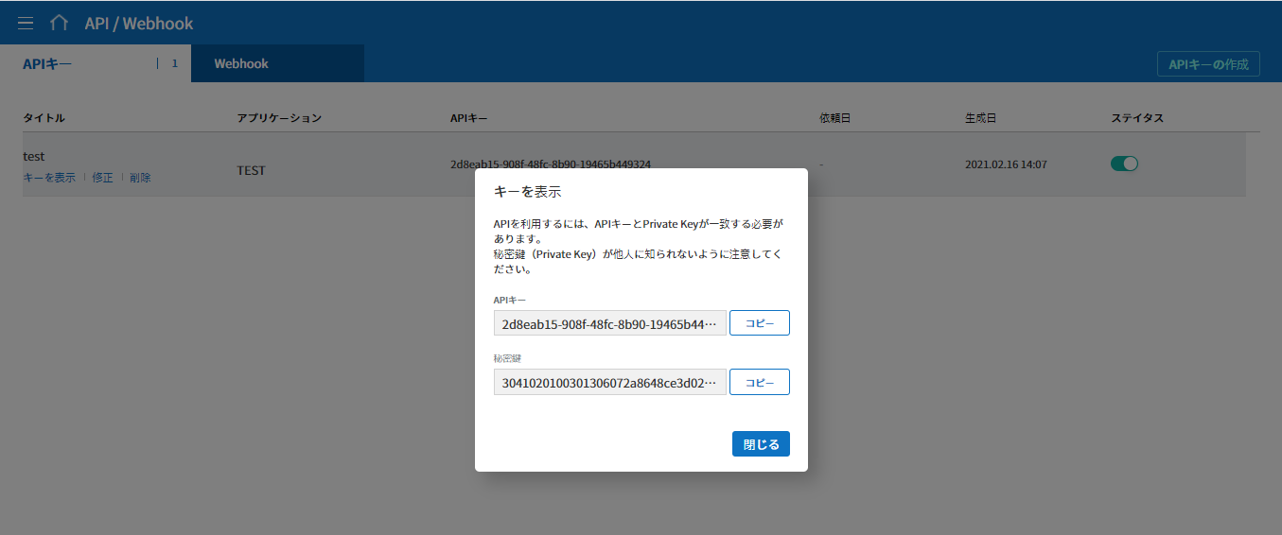
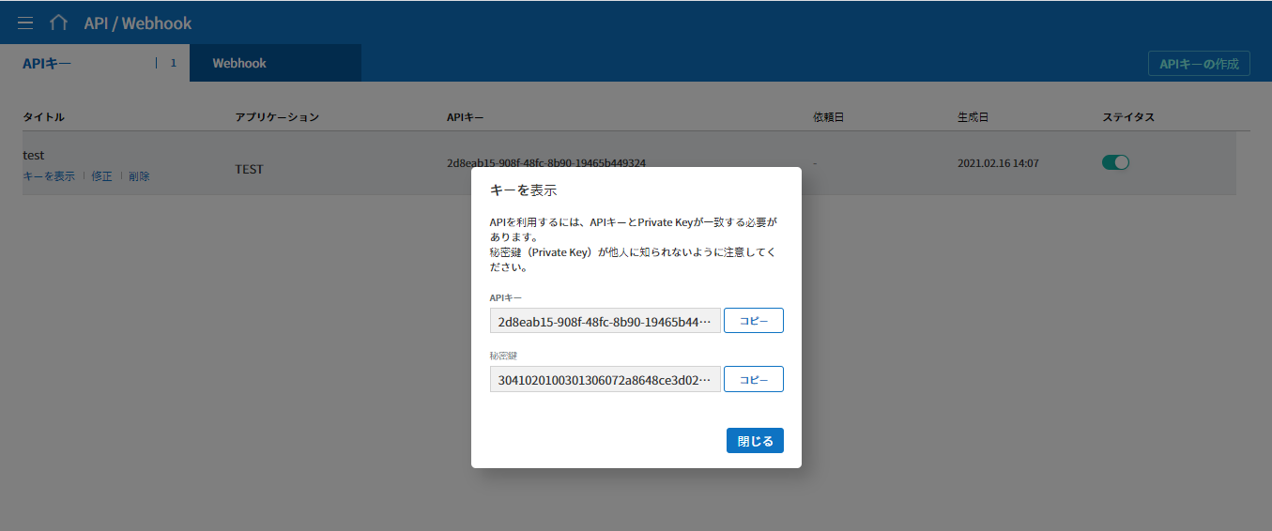
오류 수정2(이미지 정상적 업로드하기 위함)

diff --git a/docs/help/eformsign_webhook.html b/docs/help/eformsign_webhook.html
@@ -121,11 +121,11 @@
 <ol class="arabic simple">
 <li><p>eformsignに代表管理者としてログインし、左側のメニューから <strong>コネクト &gt; [API/Webhook]</strong> ページに移動します。</p></li>
 </ol>
-<a class="reference internal image-reference" href="../_images/apikey1.PNG"><img alt="コネクト &gt; API/Webhook メニューの位置" src="../_images/apikey1.PNG" style="width: 700px;" /></a>
+<a class="reference internal image-reference" href="../_images/apikey1.png"><img alt="コネクト &gt; API/Webhook メニューの位置" src="../_images/apikey1.png" style="width: 700px;" /></a>
 <ol class="arabic simple" start="2">
 <li><p><strong>[Webhook]</strong> タブを選択し、<strong>Webhookの作成</strong> ボタンをクリックします。</p></li>
 </ol>
-<a class="reference internal image-reference" href="../_images/webhook2.PNG"><img alt="「Webhookの作成」ボタン" src="../_images/webhook2.PNG" style="width: 700px;" /></a>
+<a class="reference internal image-reference" href="../_images/webhook2.png"><img alt="「Webhookの作成」ボタン" src="../_images/webhook2.png" style="width: 700px;" /></a>
 <ol class="arabic simple" start="3">
 <li><p>Webhook の作成ポップアップで名前、Webhookを受信するURL、アクティブ状態を選択します。</p></li>
 </ol>

diff --git a/docs/help/eformsign_api.html b/docs/help/eformsign_api.html
@@ -218,8 +218,8 @@
 <ol class="arabic simple" start="4">
 <li><p>作成されたキーリストから <strong>キーを表示</strong> ボタンをクリックすると、APIキーと秘密鍵を確認することができます。</p></li>
 </ol>
-<a class="reference internal image-reference" href="../_images/apikey4.PNG"><img alt="「APIキーを表示」ボタンの位置" src="../_images/apikey4.PNG" style="width: 700px;" /></a>
-<a class="reference internal image-reference" href="../_images/apikey5.PNG"><img alt="APIキーと秘密鍵の確認" src="../_images/apikey5.PNG" style="width: 700px;" /></a>
+<a class="reference internal image-reference" href="../_images/apikey4.png"><img alt="「APIキーを表示」ボタンの位置" src="../_images/apikey4.png" style="width: 700px;" /></a>
+<a class="reference internal image-reference" href="../_images/apikey5.png"><img alt="APIキーと秘密鍵の確認" src="../_images/apikey5.png" style="width: 700px;" /></a>
 <div class="admonition note">
 <p class="admonition-title">注釈</p>
 <p><strong>APIキーの修正方法</strong></p>

diff --git a/help/eformsign_webhook.rst b/help/eformsign_webhook.rst
@@ -22,16 +22,16 @@ Webhookの作成
 
 1. eformsignに代表管理者としてログインし、左側のメニューから **コネクト > [API/Webhook]** ページに移動します。 
 
-.. image:: resources/apikey1.PNG 
+.. image:: resources/apikey1.png
     :width: 700 
-    :alt: コネクト > API/Webhook メニューの位置 
+    :alt: コネクト > API/Webhook メニューの位置
 
 
 2. **[Webhook]** タブを選択し、**Webhookの作成** ボタンをクリックします。
 
-.. image:: resources/webhook2.PNG 
+.. image:: resources/webhook2.png
     :width: 700 
-    :alt: 「Webhookの作成」ボタン 
+    :alt: 「Webhookの作成」ボタン
 
 
 3. Webhook の作成ポップアップで名前、Webhookを受信するURL、アクティブ状態を選択します。

diff --git a/help/eformsign_api.rst b/help/eformsign_api.rst
@@ -126,13 +126,13 @@ APIキーの作成および秘密鍵の確認
 
 4. 作成されたキーリストから **キーを表示** ボタンをクリックすると、APIキーと秘密鍵を確認することができます。
 
-.. image:: resources/apikey4.png
-    :width: 700
-    :alt: 「APIキーを表示」ボタンの位置
+.. image:: resources/apikey4.png 
+    :width: 700 
+    :alt: 「APIキーを表示」ボタンの位置 
 
-.. image:: resources/apikey5.png
-    :width: 700
-    :alt: APIキーと秘密鍵の確認
+.. image:: resources/apikey5.png 
+    :width: 700 
+    :alt: APIキーと秘密鍵の確認 
 
 
 
